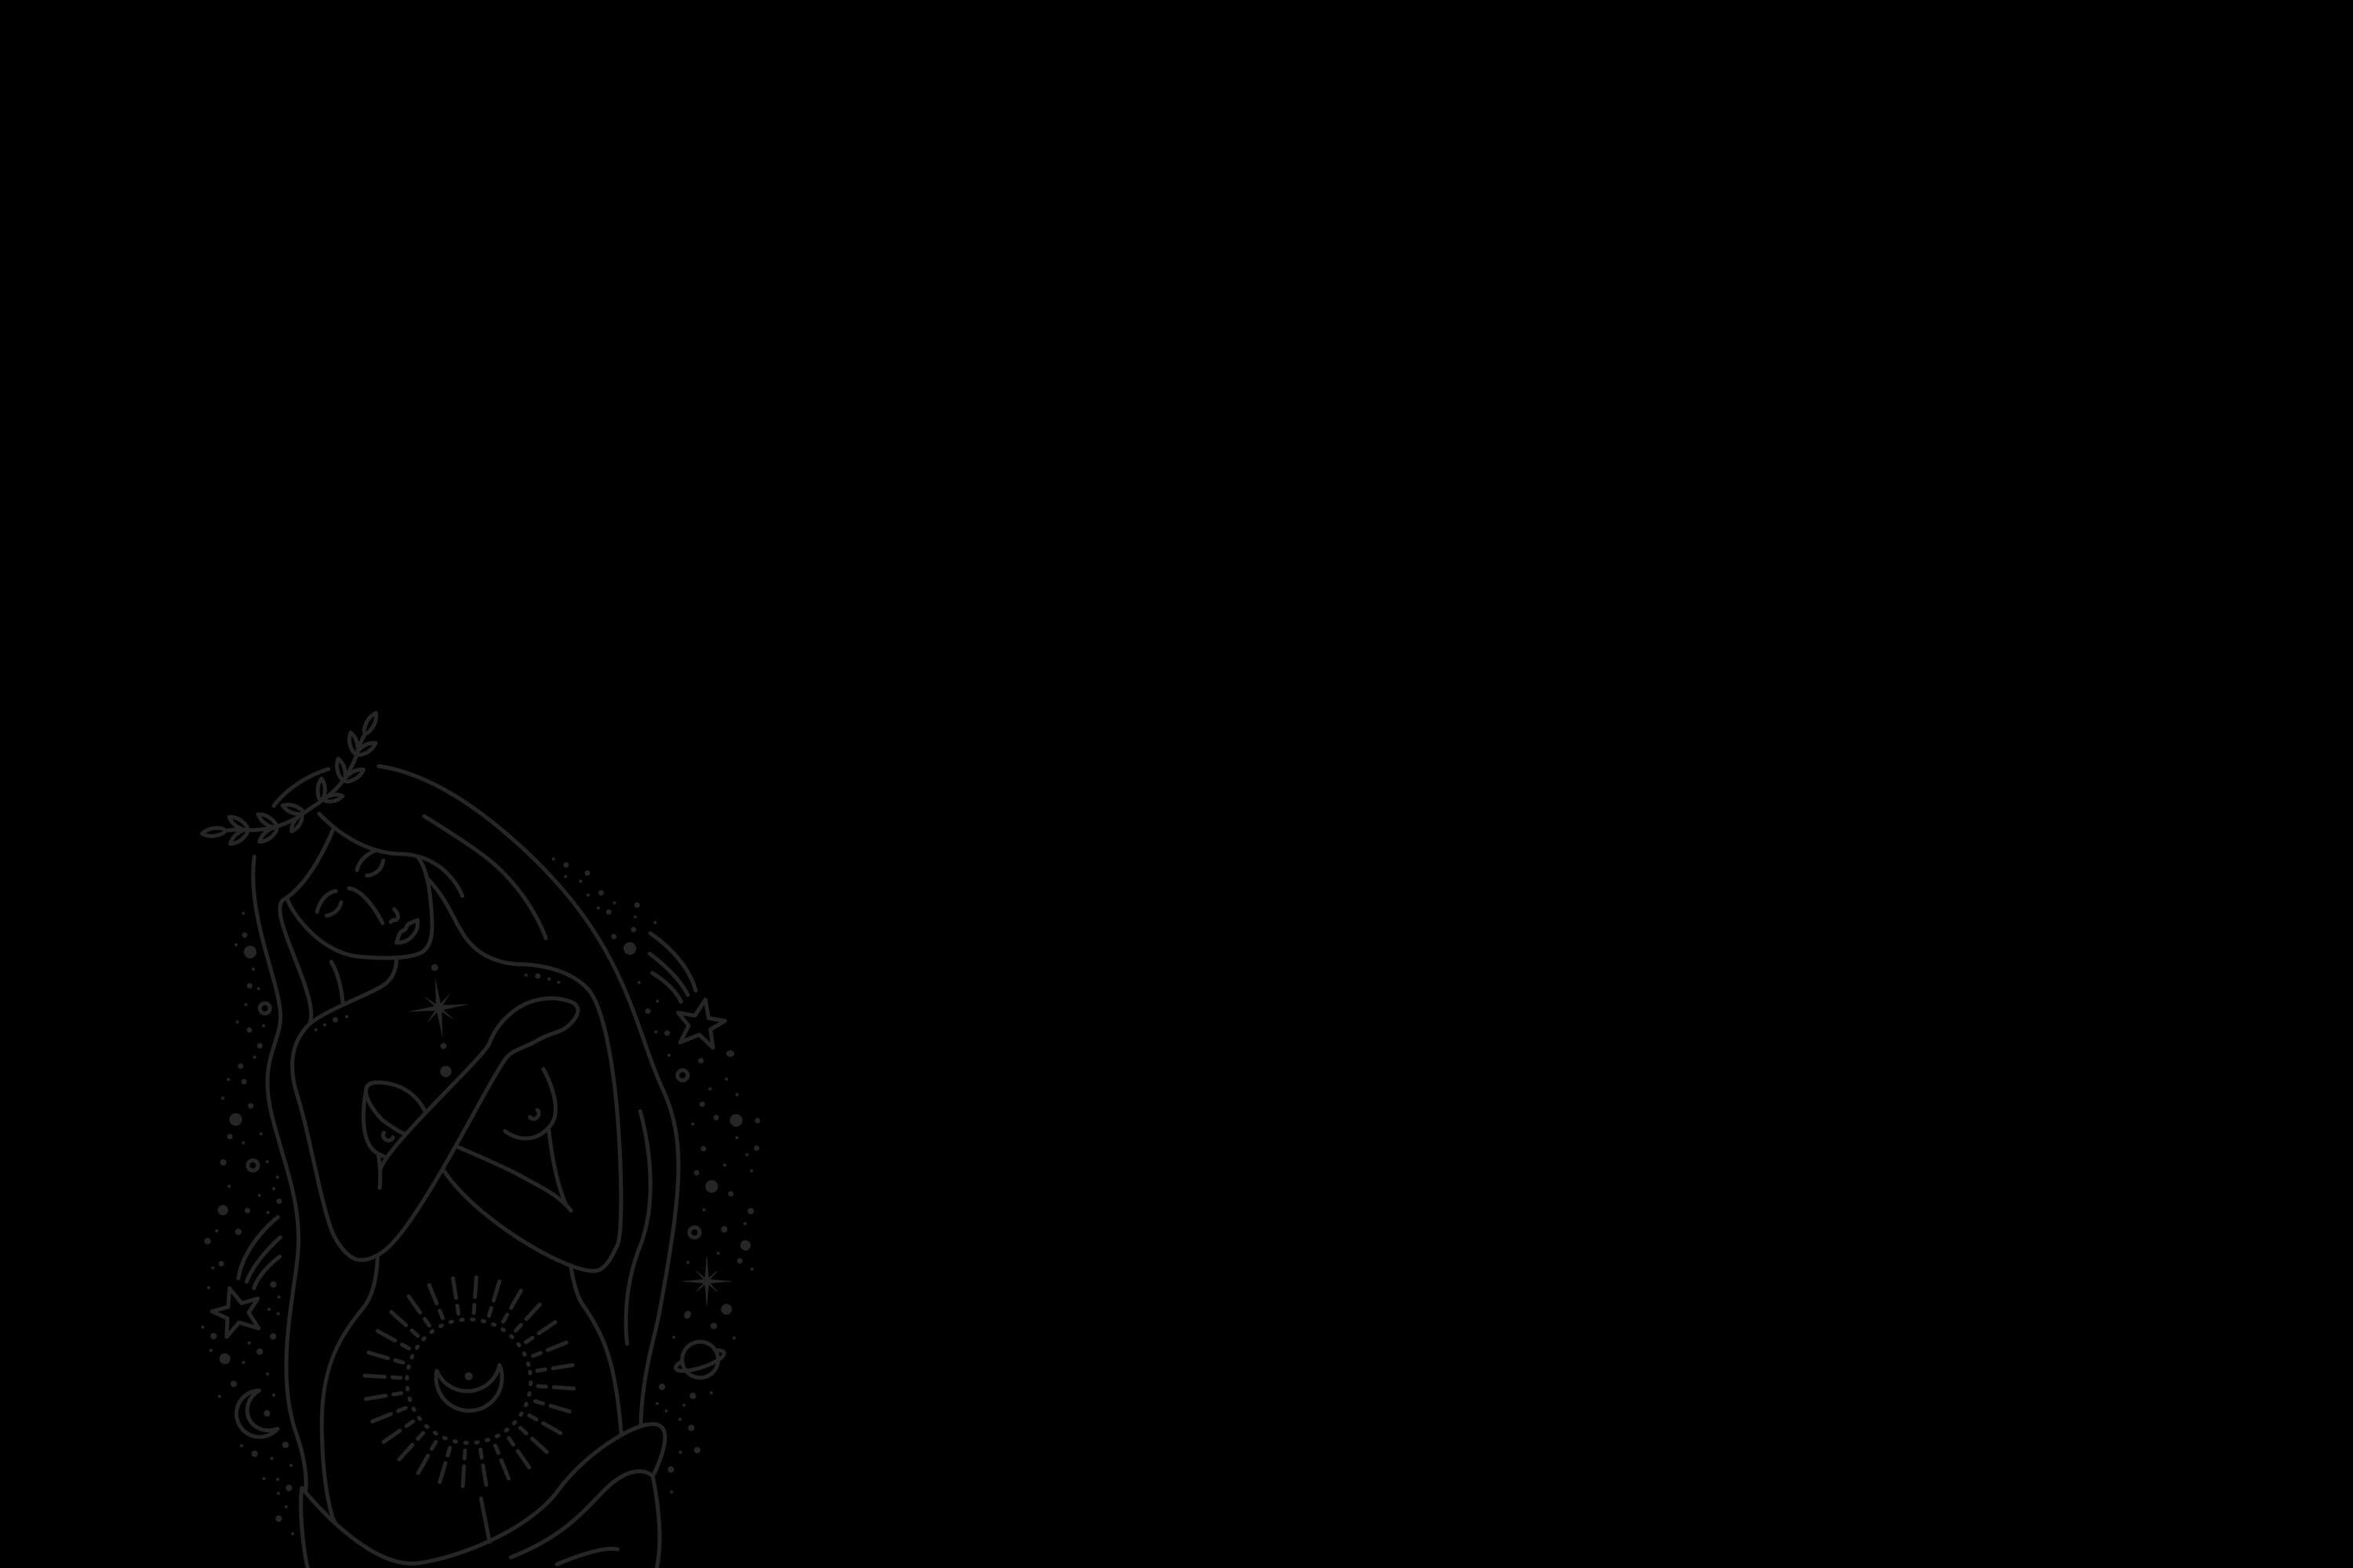
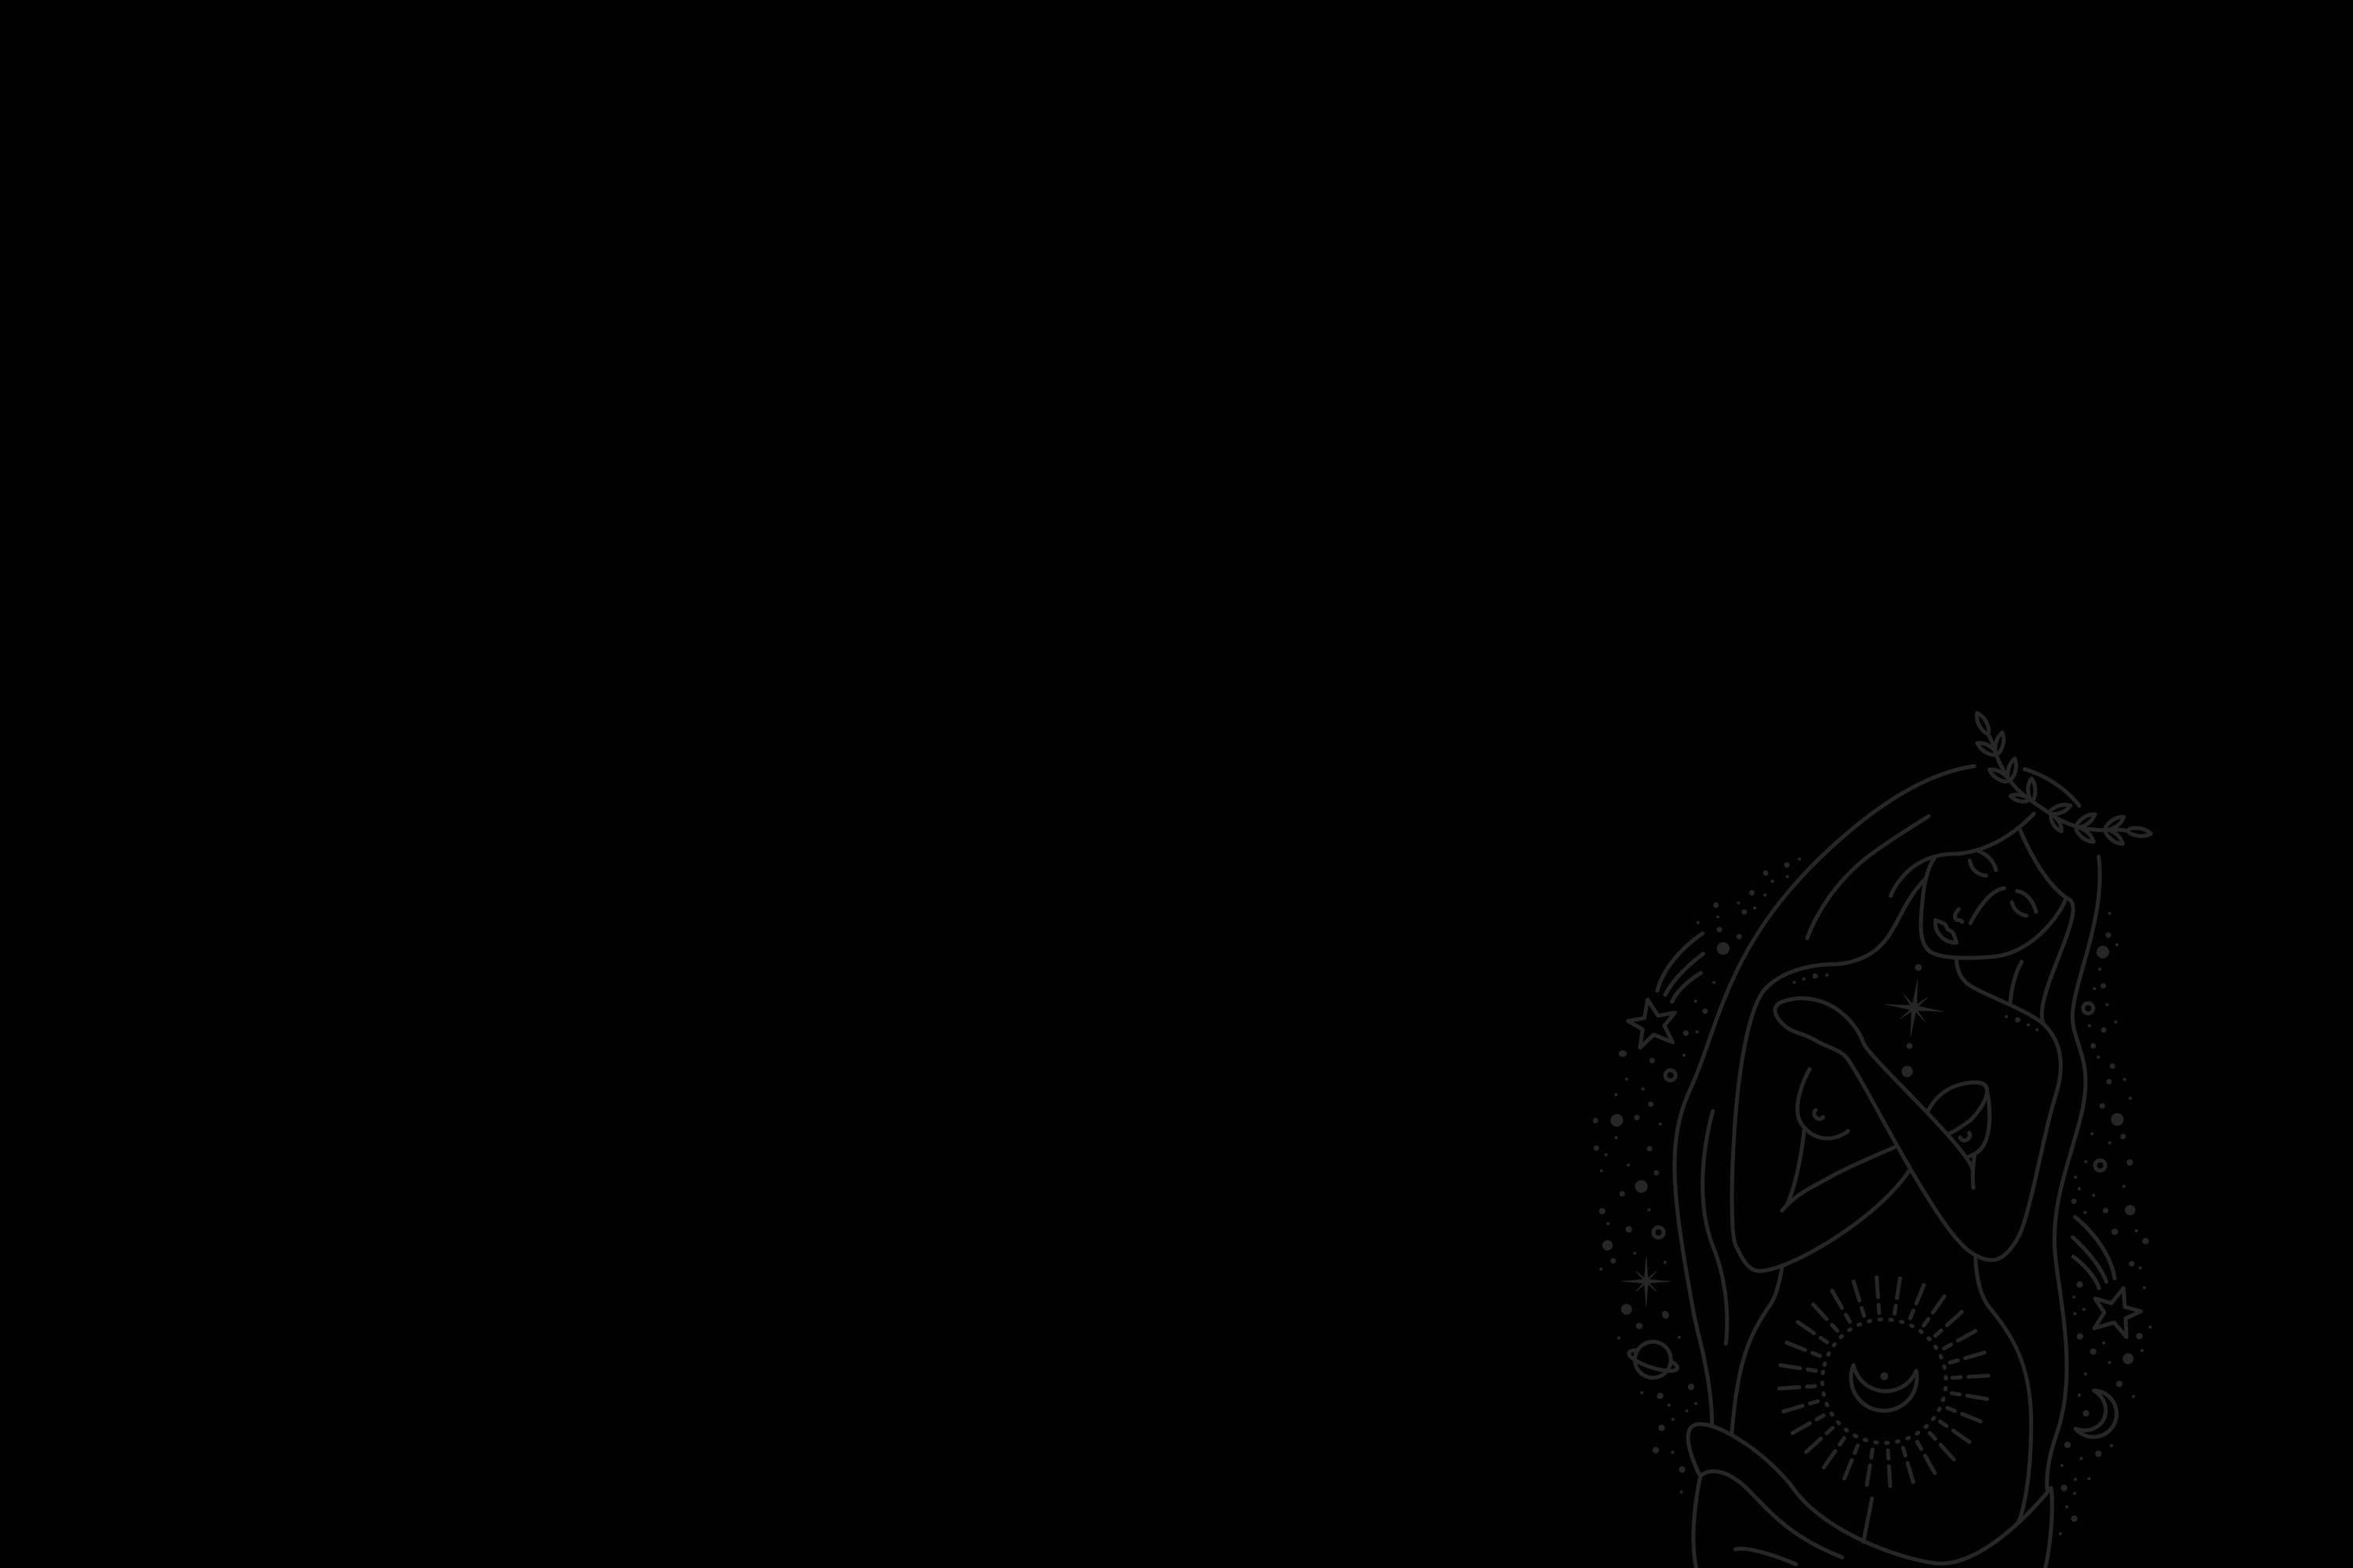
faq

diff --git a/_includes/faq.html b/_includes/faq.html
@@ -1,17 +1,23 @@
-<section>
-    <h2>{{page.faq.heading}}</h2>
-    <ul class="list-none">
+<section class="p-10p bg-image-style"
+    style="background-image: url('{{page.faq.background-image.background_image}}'); background-position: {{page.faq.background-image.image_focus}};">
+    <h2 class="heading-lg-sans text-feature text-center">{{page.faq.heading}}</h2>
+    <ul class="dropdown-menu">
         {% for item in page.faq.questions-and-answers %}
-        <li x-data="{ open: false }" class="border-b border-dark my-8">
+        <li x-data="{ open: false }" class="dropdown-item {% if forloop.last %}last-item{% endif %}">
             <button @click="open = ! open" class="flex justify-between w-full">
-                <h3 class="text-left mb-8 mr-8">{{item.question}}</h3>
-
+                <h3 class="mr-8">{{item.question}}</h3>
                 <span x-show="!open">→</span>
                 <span x-show="open">&nbsp;&nbsp;↓</span>
             </button>
             <div x-show="open" @click.outside="open = false">
-                <p class="mb-8 mr-8 italic">{{item.answer_html}}</p>
+                {% assign paragraphs = item.answer_html | split: '<p>' %}
+                    {% for paragraph in paragraphs %}
+                    {% if paragraph != '' %}
+                <p class="mr-8 mt-4 italic {% if forloop.last %} last-paragraph {% endif %}">{{ paragraph | strip_html }}</p>
+                {% endif %}
+                {% endfor %}
             </div>
         </li>
         {% endfor %}
+    </ul>
 </section>

diff --git a/assets/css/output-style.css b/assets/css/output-style.css
@@ -663,6 +663,27 @@ ul {
   align-items: center;
   justify-content: center;
 }
+/* Dropdown Menu */
+.dropdown-menu {
+  list-style-type: none;
+  border-width: 1px;
+  --tw-border-opacity: 1;
+  border-color: rgb(255 255 255 / var(--tw-border-opacity));
+}
+.dropdown-item {
+  margin-top: 0.5rem;
+  margin-bottom: 0.5rem;
+  border-bottom-width: 1px;
+  --tw-border-opacity: 1;
+  border-color: rgb(255 255 255 / var(--tw-border-opacity));
+  padding: 0.5rem;
+}
+.dropdown-item.last-item {
+        border-bottom: none;
+    }
+.last-paragraph {
+  margin-bottom: 0px;
+}
 /* Video */
 .embed-container {
         position: relative;
@@ -723,6 +744,9 @@ ul {
 .mb-8 {
   margin-bottom: 2rem;
 }
+.mr-20p {
+  margin-right: 20%;
+}
 .mr-4 {
   margin-right: 1rem;
 }
@@ -734,15 +758,6 @@ ul {
 }
 .mt-4 {
   margin-top: 1rem;
-}
-.ml-10p {
-  margin-left: 10%;
-}
-.mr-10p {
-  margin-right: 10%;
-}
-.mr-20p {
-  margin-right: 20%;
 }
 .block {
   display: block;
@@ -848,10 +863,6 @@ ul {
 }
 .border-b {
   border-bottom-width: 1px;
-}
-.border-dark {
-  --tw-border-opacity: 1;
-  border-color: rgb(0 0 0 / var(--tw-border-opacity));
 }
 .border-light {
   --tw-border-opacity: 1;
@@ -962,10 +973,6 @@ ul {
 }
 .font-serif {
   font-family: modernline, serif;
-}
-.text-xl {
-  font-size: 1.25rem;
-  line-height: 1.75rem;
 }
 .text-2xl {
   font-size: 1.5rem;

diff --git a/style.css b/style.css
@@ -200,6 +200,23 @@
         @apply flex justify-center items-center mb-8
     }
 
+    /* Dropdown Menu */
+    .dropdown-menu {
+        @apply list-none border border-light
+    }
+
+    .dropdown-item {
+        @apply border-b border-light my-2 p-2
+    }
+
+    .dropdown-item.last-item {
+        border-bottom: none;
+    }
+
+    .last-paragraph {
+        @apply mb-0
+    }
+
     /* Video */
     .youtube-container {
         max-width: 50%;

diff --git a/_layouts/program.html b/_layouts/program.html
@@ -26,7 +26,9 @@ layout: default
 {% include testimonials.html %}
 
 <!-- Meet Your Teacher -->
+{% if page.video.show == true %}
 {% include about-mana-course.html %}
+{% endif %}
 
 <!-- Investment -->
 {% include investment.html %}

diff --git a/_courses/wisdom-body.md b/_courses/wisdom-body.md
@@ -88,8 +88,6 @@ testimonials:
      author: Ken Adams
 instructor: 
   show: true
-  heading: Your Facilitator, Mana Mei
-  description_html: I am a passionate curator of embodiment ceremonies and sacred dance spaces, as well as a professional dancer and performer with over 20 years of classical dance training.<br>Through my life-long studies of classical dance techniques and over 10 years of exploring non-traditional movement techniques, I have discovered the immense healing power of movement and am passionate about sharing this wisdom with women all over the world.<br>I believe that our bodies are vessels gifted to us to explore all of the complexities of the human experience and the infinite expression of our Spirit, and by becoming deeply embodied and cultivating unwavering inner safety and freedom, we can live in Full Authentic Liberation
 investment: 
   heading: Investment
   includes: 
@@ -112,18 +110,21 @@ faq:
   heading: Frequently asked questions
   questions-and-answers: 
    - question: I have a busy schedule. Can I take my time working through each module?
-     answer: YES! Wisdom Body is designed to serve YOU in living in your radiance. Therefore the practices have been designed to give you the freedom of when, and how often you practice. That being said here is the recommendation from Mana Mei.<br>For first time, it is recommended to complete ONE module per week, spacing the 3 practices out as you desire. The practices are meant to do IN ORDER, as the 3rd practice incorporates practice 1 & 2.<br>As you have lifetime access, once you have completed all 4 modules, you will have the knowledge and freedom to revisit specific practices, choosing which will serve you best on any particular day.<br>These practices are meant to be done MORE THAN ONCE. And the more you do them, the deeper you will be able to go. Through the practices, you are retraining your ability to stay present, to access more freedom, and to evoke new feelings. 
+     answer_html: <p>YES! Wisdom Body is designed to serve YOU in living in your radiance. Therefore the practices have been designed to give you the freedom of when, and how often you practice. That being said here is the recommendation from Mana Mei.</p><p>For first time, it is recommended to complete ONE module per week, spacing the 3 practices out as you desire. The practices are meant to do IN ORDER, as the 3rd practice incorporates practice 1 & 2.</p><p>As you have lifetime access, once you have completed all 4 modules, you will have the knowledge and freedom to revisit specific practices, choosing which will serve you best on any particular day.</p><p>These practices are meant to be done MORE THAN ONCE. And the more you do them, the deeper you will be able to go. Through the practices, you are retraining your ability to stay present, to access more freedom, and to evoke new feelings.</p>
    - question: Are there prerequisites to take this program?
-     answer: NO. This program is open to any woman who is excited and ready to dive into the movement medicine, regardless of your previous experience. All women can benefit from this program, regardless of your age, physical capacity, dance experience, or location in the world.<br>In the case that you are still worried that you do not have enough experience for this program, Mana Mei recommends starting with the MANA Movement Program as a solid starting foundation. 
+     answer_html: <p>NO. This program is open to any woman who is excited and ready to dive into the movement medicine, regardless of your previous experience. All women can benefit from this program, regardless of your age, physical capacity, dance experience, or location in the world.</p><p>In the case that you are still worried that you do not have enough experience for this program, Mana Mei recommends starting with the MANA Movement Program as a solid starting foundation.</p>
    - question: What is the difference between Wisdom Body and MANA Movement?
-     answer: MANA Movement is a guided practice which flows through sequences of specific movement patterns that are focused on bringing non-linear movement into the physical body, otherwise known as the Feminine Pathways or circles, spirals, and waves.<br>MANA Movement is a great place to start for those who are completely new to embodied dance and want clear and specific guidance on how to move the body for more freedom.<br>Wisdom Body will offer you the next level of freedom in that there is no specific guided movements, but rather invitations for you to discover your unique movement style through intentional prompts, imagery, and somatic cues.<br>Wisdom Body is perfect for any woman ready to deepen her movement practice and gain new inspiration for increased freedom.
+     answer_html: <p>MANA Movement is a guided practice which flows through sequences of specific movement patterns that are focused on bringing non-linear movement into the physical body, otherwise known as the Feminine Pathways or circles, spirals, and waves.</p><p>MANA Movement is a great place to start for those who are completely new to embodied dance and want clear and specific guidance on how to move the body for more freedom.</p><p>Wisdom Body will offer you the next level of freedom in that there is no specific guided movements, but rather invitations for you to discover your unique movement style through intentional prompts, imagery, and somatic cues.</p><p>Wisdom Body is perfect for any woman ready to deepen her movement practice and gain new inspiration for increased freedom.</p>
    - question: Will I receive a certificate at the end?
-     answer: Wisdom Body is purely a personal deep dive experience so there is no certification at completion. If you are interested in Mana Mei’s Level 1 Leadership and Facilitator Training, check out the Liberation Through Movement Mentorship Program!
+     answer_html: <p>Wisdom Body is purely a personal deep dive experience so there is no certification at completion. If you are interested in Mana Mei’s Level 1 Leadership and Facilitator Training, check out the Liberation Through Movement Mentorship Program!</p>
    - question: I don’t have a credit card. Is there any other way I can pay?
-     answer: Yes! We accept PayPal and Bank Transfers. Please contact Mana Mei to request a new payment option.
+     answer_html: <p>Yes! We accept PayPal and Bank Transfers. Please contact Mana Mei to request a new payment option.</p>
+  background-image: 
+    background_image: /uploads/backgrounds/manamei-3.jpg
+    image_focus: bottom right
 cta: 
   heading: Something greater
-  description_html: There is something much greater than you or me, or our physical bodies and minds, that exists in the unseen world and is the source of what we call magic, and which is always working to bring us back into alignment with our divine path and purpose - that something is your Wisdom Body.<br>This immersion will provide you with the tools & experiences to help you reconnect with your own Wisdom Body and step into your full power.
+  description_html: <p>There is something much greater than you or me, or our physical bodies and minds, that exists in the unseen world and is the source of what we call magic, and which is always working to bring us back into alignment with our divine path and purpose - that something is your Wisdom Body.</p><p>This immersion will provide you with the tools & experiences to help you reconnect with your own Wisdom Body and step into your full power.</p>
   button: 
     text: Enroll now
     url: 
